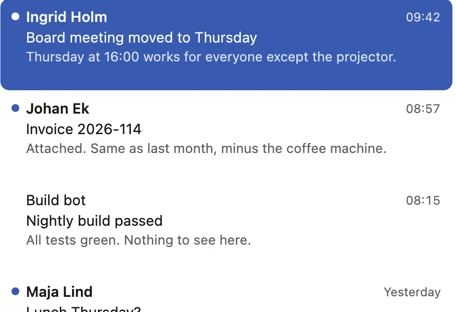
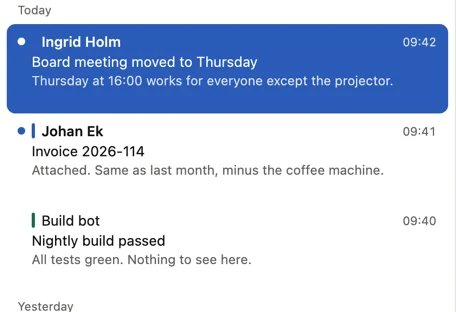
Site: screenshots from the current app (#229)
* Desktop: LAGOM_THEME also sets the macOS window appearance, for faithful captures

Claude-Session: https://claude.ai/code/session_01QQ1e26SVzWv7LhYoxdywd7

* Site: screenshots from the current app

The main window and the five detail crops are recaptured in demo mode
(light, over a plain backdrop, no hover). The sidebar tile names Today,
as the app does.

Claude-Session: https://claude.ai/code/session_01QQ1e26SVzWv7LhYoxdywd7

* TODO: site screenshots done; iPhone and iPad images next

Claude-Session: https://claude.ai/code/session_01QQ1e26SVzWv7LhYoxdywd7

---------

diff --git a/site/index.html b/site/index.html
@@ -160,8 +160,8 @@
             <div><h3>Three buttons</h3><p>Done, Reply and Later. E, R and L do the same from the keyboard.</p></div>
           </article>
           <article class="tile t2">
-            <figure><img src="detail-sidebar.webp" width="244" height="480" alt="The mail sidebar with search, Inbox, Later, Sent, Done, Trash and folders."></figure>
-            <div><h3>Home, Mail, Calendar, To-do</h3><p>Your day, unread mail, a weekly calendar and task lists. Mailboxes and folders stay close.</p></div>
+            <figure><img src="detail-sidebar.webp" width="244" height="480" alt="The sidebar: Today, Mail, Calendar and To-do, then Inbox with two accounts, Later, Sent, Done, Drafts and Trash."></figure>
+            <div><h3>Today, Mail, Calendar, To-do</h3><p>Your day, unread mail, a weekly calendar and task lists. Mailboxes and folders stay close.</p></div>
           </article>
           <article class="tile t3">
             <figure><img src="detail-list.webp" width="456" height="312" alt="Rows of the message list, each with sender, subject, preview and time. The selected row is blue."></figure>

diff --git a/apps/desktop/src/icon.rs b/apps/desktop/src/icon.rs
@@ -1,5 +1,5 @@
 use objc2::{AnyThread, MainThreadMarker};
-use objc2_app_kit::{NSApplication, NSImage};
+use objc2_app_kit::{NSAppearance, NSAppearanceCustomization, NSAppearanceNameAqua, NSAppearanceNameDarkAqua, NSApplication, NSImage};
 use objc2_foundation::{NSBundle, NSData, NSString};
 
 /// The standard About panel: the icon set by `install`, the name, and the bundle's version.
@@ -26,4 +26,15 @@ pub fn set_badge(count: usize) {
     let Some(main_thread) = MainThreadMarker::new() else { return };
     let label = (count > 0).then(|| NSString::from_str(&count.to_string()));
     NSApplication::sharedApplication(main_thread).dockTile().setBadgeLabel(label.as_deref());
+}
+
+/// `LAGOM_THEME=light|dark` also sets the window material (sidebar), so captures match a Mac in that mode.
+pub fn force_appearance() {
+    let Some(main_thread) = MainThreadMarker::new() else { return };
+    let name = match std::env::var("LAGOM_THEME").as_deref() {
+        Ok("light") => unsafe { NSAppearanceNameAqua },
+        Ok("dark") => unsafe { NSAppearanceNameDarkAqua },
+        _ => return,
+    };
+    NSApplication::sharedApplication(main_thread).setAppearance(NSAppearance::appearanceNamed(name).as_deref());
 }

diff --git a/apps/desktop/src/main.rs b/apps/desktop/src/main.rs
@@ -252,7 +252,7 @@ fn main() {
             }
         }).detach();
         #[cfg(target_os = "macos")]
-        icon::install();
+        { icon::install(); icon::force_appearance(); }
     });
 }
 

diff --git a/TODO.md b/TODO.md
@@ -155,6 +155,8 @@ Defaults in the code until the maintainer decides (Figma "Lagom · Folders", fra
 - [ ] Windows FFI tests time out now and then (`done_and_delete_move_through_imap_without_crossing_accounts`, `inline_loading_fetches_legacy_mail_and_reuses_cache`); a rerun passes. The hang guard is now 30 s (`HANG` in `crates/lagom-ffi/src/tests.rs`). Hypothesis, not measured: slow Windows runners, not a deadlock; if a run still times out at 30 s, look for a real hang.
 - [ ] Performance budgets run on Ubuntu and macOS only (`perf.yml`); a Windows binary over its 32 MB budget passes CI unseen (Codex 2026-11-22).
 - [x] Mac app icon in dark and tinted styles (Alex 2026-11-22): Icon Composer file `brand/app-icon/AppIcon.icon`, compiled into Assets.car by package-macos.sh. Measured: NSWorkspace gives the navy dark icon on this Mac (dark icon style).
+- [x] Site screenshots from the current app (Alex 2026-11-22): main window and detail crops recaptured in demo mode.
+- [ ] Site: iPhone and iPad screenshots (Alex 2026-11-22). Needs the iPhone 17 Pro registered for the test bundle and the iPad unlocked.
 - [ ] Weather on Today (Alex 2026-11-22, parked until the open items are done): a place chosen in Settings first (Open-Meteo from the core, no location permission), "Use my location" on mobile later. Check Open-Meteo's non-commercial terms; name it on the privacy page.
 - [x] Body font follow-ups (Codex review 2026-11-22): the binary budget is 30 MB on macOS and 32 MB on Linux and Windows only (`max_linux`/`max_win32`). HTML mail without its own font keeps the platform's reading font (`system-ui`: SF on Apple, Roboto on Android, Segoe UI on Windows), not Inter: Inter in the WebView needs a font scheme and a CSP font source per document. Claude's call; Alex can overrule.
 - [x] Mac search in the title-bar row (Alex 2026-11-20: "dumt att ha ett sökfält där uppe som tar så mycket plats"): the full-width Search field is gone; a search icon sits at the right end of the traffic lights' row (centre y 25 pt, measured equal to the lights) and opens the command palette, as ⌘K does. Today/Mail/Calendar/To-do move up to where Search was. No logo in the title bar. Windows/Linux: the same icon tops the sidebar (not run there). Branch `ui/mac-search`.
